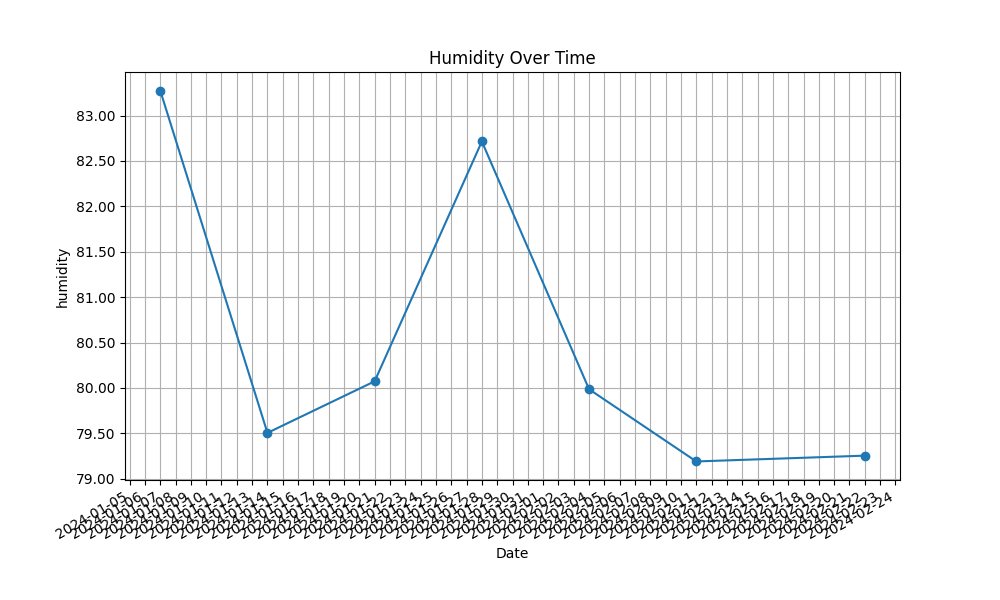
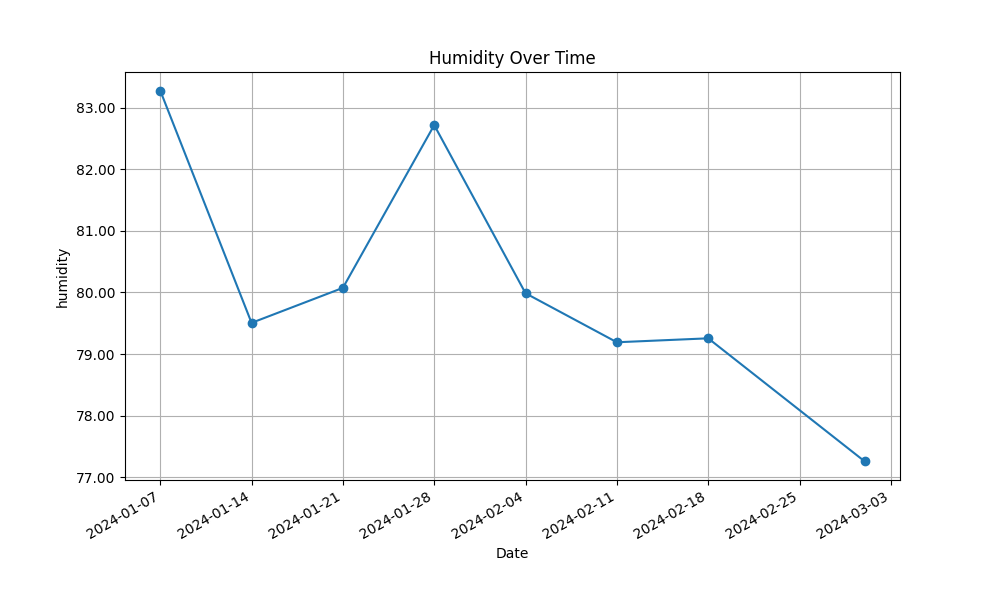
chore: weekly stats update (after altering cron schedule)

diff --git a/basin_wxm/fetch.py b/basin_wxm/fetch.py
@@ -294,7 +294,7 @@ def retrieve_events(events: List[Dict], dir: str) -> None:
         cid = event.get("cid")
         if cid:
             try:
-                command = ["vaults", "retrieve", cid]
+                command = ["vaults", "retrieve", "-o", f"{cid}.parquet", cid]
                 run(
                     command,
                     capture_output=True,

diff --git a/Data.md b/Data.md
@@ -1,6 +1,6 @@
 # Data
 
-_Generated on **2024-02-22** for data in range **2024-02-12 00:00:00** to **2024-02-18 00:00:00**._
+_Generated on **2024-02-25** for data in range **2024-02-19 00:00:00** to **2024-02-25 00:00:00**._
 
 The schema for the raw data is as follows:
 
@@ -40,12 +40,12 @@ And three additional columns for run metadata:
 ## Averages & cumulative metrics
 
 | Job Date   | Range Start   | Range End     | Number Of Devices | Cell Id Mode    | Total Precipitation | Temperature | Humidity | Precipitation Accumulated |
-|------------|---------------|---------------|-------------------|-----------------|---------------------|-------------|----------|---------------------------|
-| 2024-02-22 | 1707696000000 | 1708214400000 | 4529              | 871eda743ffffff | 193516426836.855    | 8.134       | 79.255   | 2021.867                  |
+| ---------- | ------------- | ------------- | ----------------- | --------------- | ------------------- | ----------- | -------- | ------------------------- |
+| 2024-03-01 | 1708300800000 | 1708819200000 | 4605              | 871eda743ffffff | 211525643130.935    | 8.622       | 77.257   | 2182.201                  |
 
 | Wind Speed | Wind Gust | Wind Direction | Illuminance | Solar Irradiance | Fo Uv   | Uv Index | Precipitation Rate | Pressure |
-|------------|-----------|----------------|-------------|------------------|---------|----------|--------------------|----------|
-| 0.817      | 1.142     | 191.550        | 245438.146  | 1944.125         | 450.654 | 0.435    | 0.062              | 991.439  |
+| ---------- | --------- | -------------- | ----------- | ---------------- | ------- | -------- | ------------------ | -------- |
+| 0.851      | 1.189     | 188.817        | 328272.629  | 2586.728         | 499.633 | 0.527    | 0.069              | 989.563  |
 
 ## Precipitation accumulated maps
 
@@ -130,4 +130,3 @@ And three additional columns for run metadata:
 ### Pressure
 
 ![Pressure](./assets/averages/pressure.png)
-
